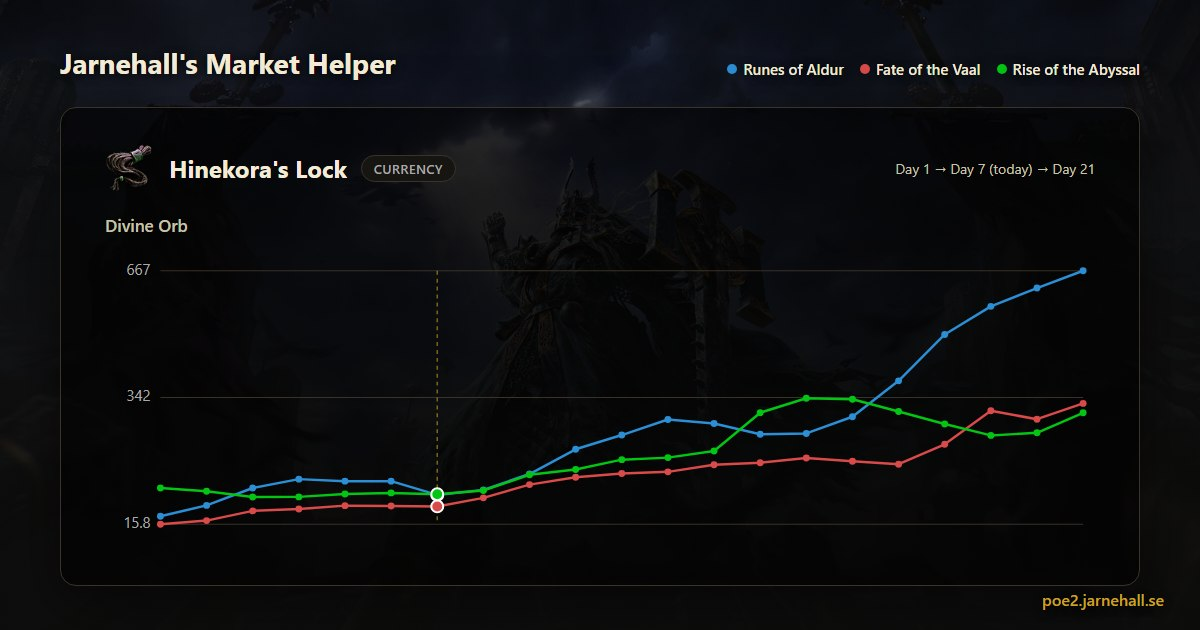
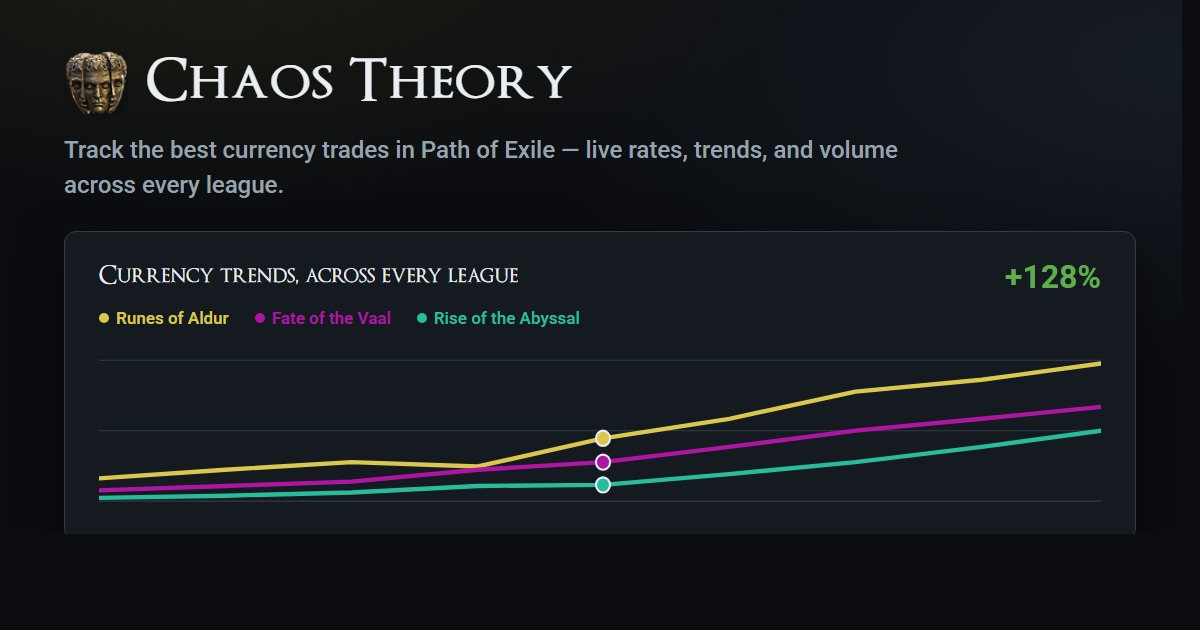
Add new og-image and fix issues with header

diff --git a/src/App.css b/src/App.css
@@ -86,32 +86,32 @@
   flex-shrink: 0;
 }
 
-/* Below this, "Chaos Theory" alongside the icon and the
-   Leagues/Filters/Settings/Reset row no longer comfortably fits on one
-   row — the title text is simply dropped rather than abbreviated, since
-   the icon alone (always kept, see .app-header-inner's nowrap) is already
-   enough to identify the app in a slim header, and dropping the text means
-   less of the controls row needs to scroll to reach. */
+/* Below this (measured directly via boundingClientRect, not derived from a
+   rounded guess — same for every other threshold in this file), "Chaos
+   Theory" alongside the icon and the full Leagues/Filters/Settings/Reset
+   row no longer comfortably fits on one row. The Reset button's own label
+   is dropped first, not the title — aria-label still carries its meaning
+   for screen readers, and losing "all filters" reads as far less of a loss
+   than losing the app's own name does. */
 @media (max-width: 813px) {
-  .app-header-title-full {
-    display: none;
-  }
-}
-
-/* Below this, the icon-only title alongside the button row (with the
-   Reset button's own label) starts needing to scroll further still —
-   dropping "Reset all filters" to just its icon (aria-label still carries
-   the meaning for screen readers) keeps more of the row in view before a
-   scroll is needed. */
-@media (max-width: 660px) {
   .reset-filters-button-label {
     display: none;
   }
 }
 
+/* Below this, the full title alongside the button row (Reset now icon-only)
+   starts needing to scroll further still — dropping "Chaos Theory" down to
+   just its icon (still enough to identify the app in a slim header) keeps
+   more of the row in view before a scroll is needed. */
+@media (max-width: 714px) {
+  .app-header-title-full {
+    display: none;
+  }
+}
+
 /* Below this, even the icon-only title no longer comfortably fits — dropped
-   entirely (icon included) rather than shrunk further, matching
-   .app-header-title-full's own "drop, don't abbreviate" approach above. */
+   entirely rather than shrunk further, matching .app-header-title-full's
+   own "drop, don't abbreviate" approach above. */
 @media (max-width: 537px) {
   .app-header-title {
     display: none;
@@ -124,20 +124,50 @@
   }
 }
 
-/* Below this, .app-header-inner's own horizontal padding is dropped in
-   favor of .app-header-controls scrolling edge-to-edge — the same 12px is
-   added to .app-header-controls instead (rather than just deleted) so its
-   content still starts with the same visual inset it always had, it's just
-   that inset now scrolls away with the row instead of staying fixed. */
+/* Below this, the title is already gone entirely (see the 537px rule
+   above), and .app-header-controls' own Leagues/Filters/Settings/Reset
+   pills no longer fit even on their own — this is where it actually starts
+   scrolling horizontally, not just wherever the title's own hiding
+   happened to stop being enough. */
 @media (max-width: 489px) {
   .app-header-inner {
     padding-left: 0;
     padding-right: 0;
+    /* Moved onto .app-header-controls instead (as its own padding-bottom)
+       — see that rule for why. */
+    padding-bottom: 0;
   }
 
   .app-header-controls {
     padding-left: 12px;
     padding-right: 12px;
+    /* .app-header-inner's own bottom padding is zeroed above and moved
+       here instead: a scrolling element's native scrollbar renders flush
+       against the *bottom of its own box*, so as long as this padding
+       lived on .app-header-inner, the scrollbar (sitting flush inside
+       .app-header-controls' shorter box) landed well above it, with the
+       padding forming empty space *below* the scrollbar instead of above
+       it. Giving that same padding to .app-header-controls directly gives
+       the scrollbar somewhere to actually land in, right at the pills'
+       own bottom edge, instead of past it. align-items: flex-start keeps
+       the pills pinned to the top of the taller box this creates, rather
+       than centered with the scrollbar cutting across their middle. */
+    padding-bottom: 12px;
+    align-items: flex-start;
+    scrollbar-width: thin;
+  }
+
+  .app-header-controls::-webkit-scrollbar {
+    height: 4px;
+  }
+
+  .app-header-controls::-webkit-scrollbar-track {
+    background: transparent;
+  }
+
+  .app-header-controls::-webkit-scrollbar-thumb {
+    background: var(--border);
+    border-radius: 999px;
   }
 }
 
@@ -161,7 +191,7 @@
   display: flex;
   align-items: center;
   flex-wrap: wrap;
-  gap: 16px;
+  gap: 8px 16px;
   margin-top: 1.25em;
 }
 

diff --git a/index.html b/index.html
@@ -19,8 +19,8 @@
       property="og:description"
       content="Track the best currency trades in Path of Exile — live rates, trends, and volume across every league."
     />
-    <meta property="og:url" content="https://poe2.jarnehall.se/" />
-    <meta property="og:image" content="https://poe2.jarnehall.se/og-image.jpg" />
+    <meta property="og:url" content="https://chaostheory.jarnehall.se/" />
+    <meta property="og:image" content="https://chaostheory.jarnehall.se/og-image.jpg" />
     <meta property="og:image:width" content="1200" />
     <meta property="og:image:height" content="630" />
 
@@ -31,7 +31,7 @@
       name="twitter:description"
       content="Track the best currency trades in Path of Exile — live rates, trends, and volume across every league."
     />
-    <meta name="twitter:image" content="https://poe2.jarnehall.se/og-image.jpg" />
+    <meta name="twitter:image" content="https://chaostheory.jarnehall.se/og-image.jpg" />
     <!-- Mirrors src/index.css's --bg, --select, and body background so the
          page looks the same before the app's stylesheet and data have
          loaded. Keep in sync. Always dark — this app doesn't have a light

diff --git a/backend/src/DataAccess/PoeNinjaClient.php b/backend/src/DataAccess/PoeNinjaClient.php
@@ -26,7 +26,7 @@ namespace App\DataAccess;
  */
 final class PoeNinjaClient
 {
-    private const USER_AGENT = 'poe2-market-guide/1.0 (personal project; +https://poe2.jarnehall.se/)';
+    private const USER_AGENT = 'poe2-market-guide/1.0 (personal project; +https://chaostheory.jarnehall.se/)';
     private const TIMEOUT_SECONDS = 10;
     private const CACHE_TTL_SECONDS = 2 * 60 * 60;
 
